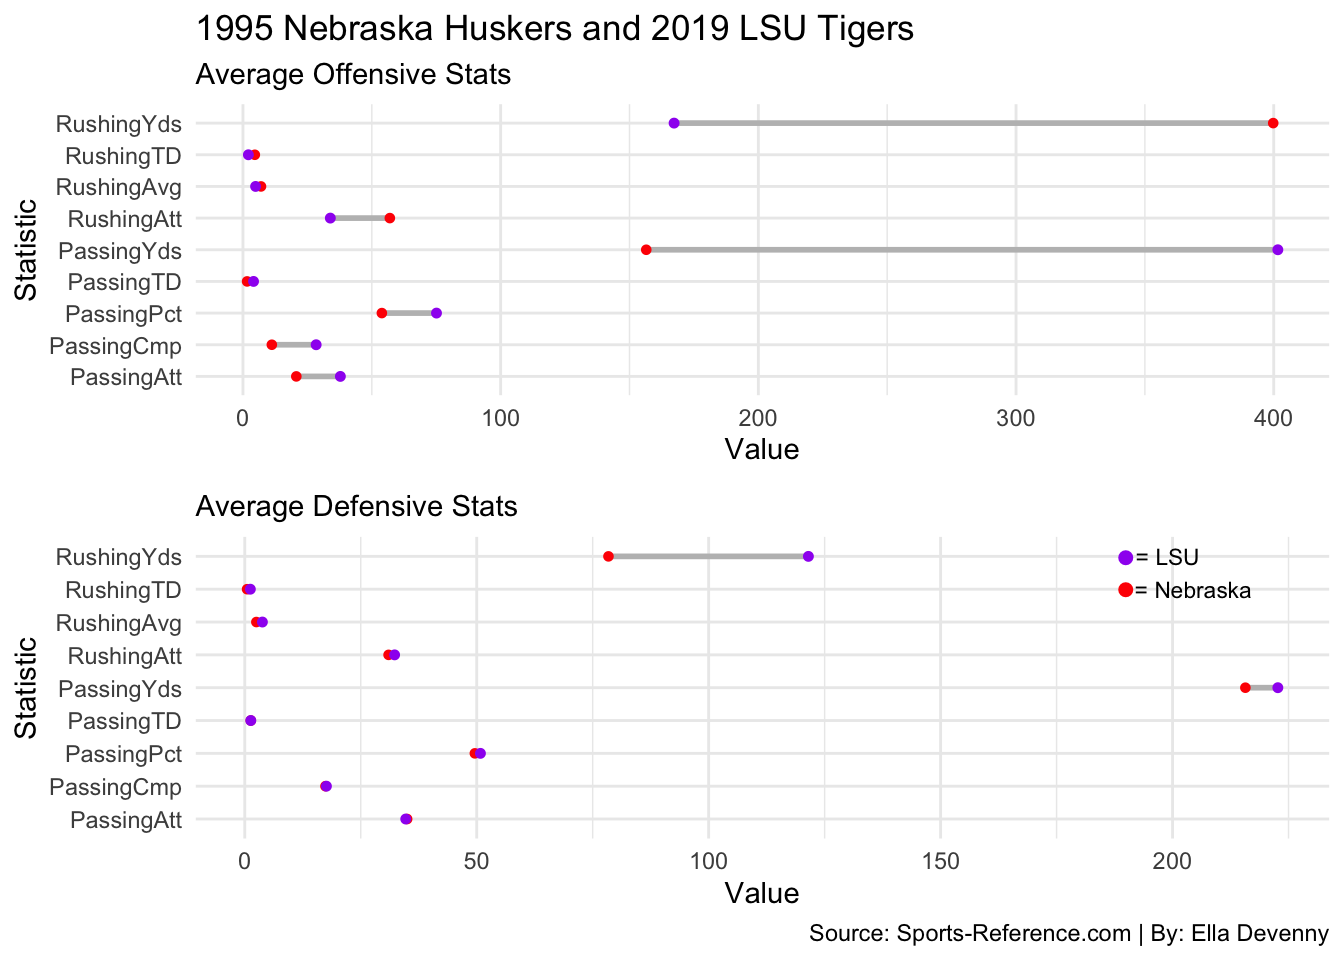
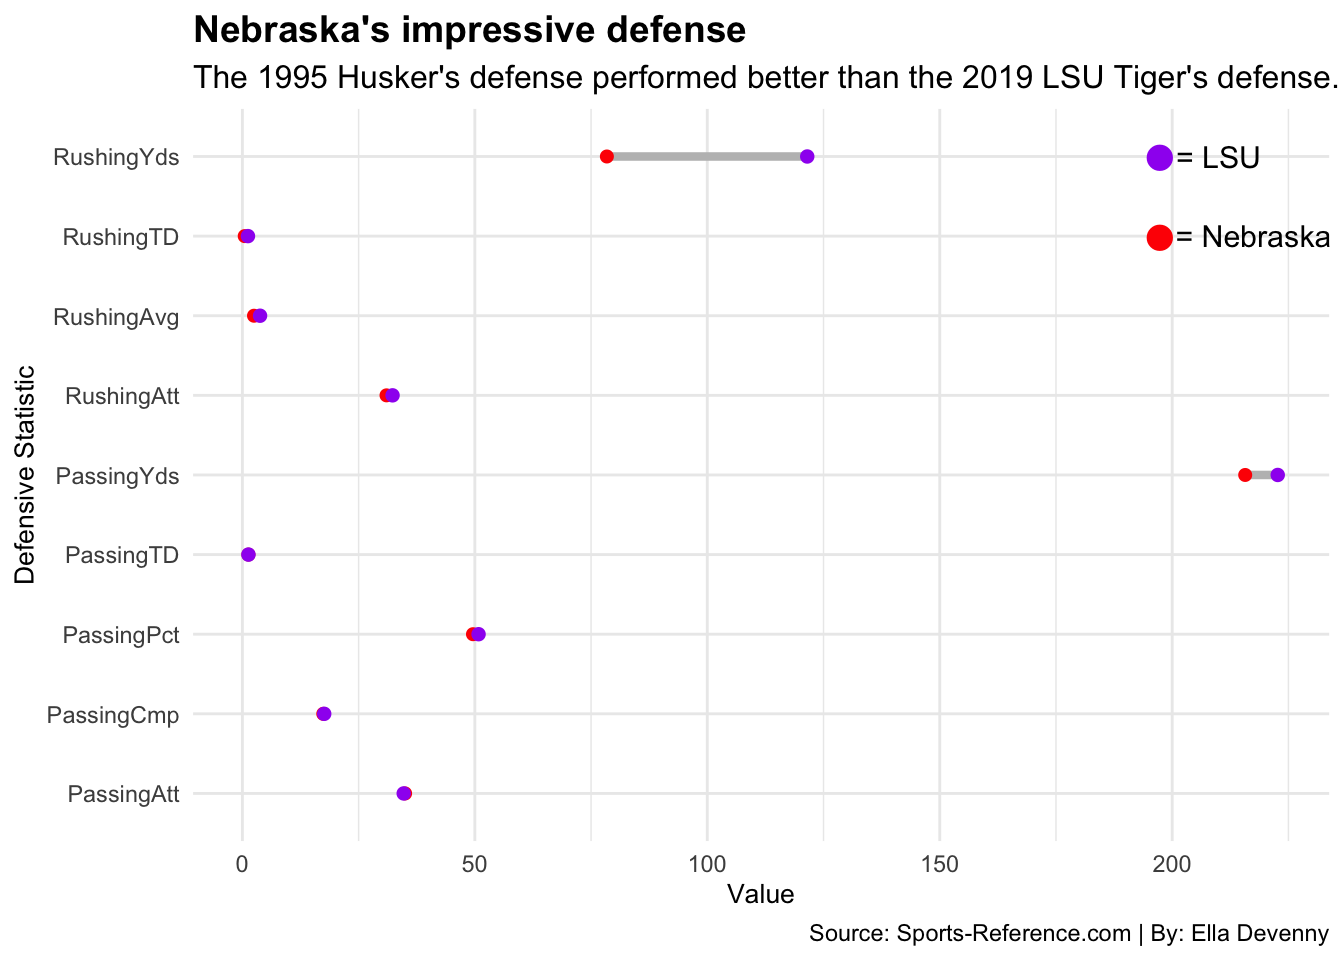
Making edits on my recent blog post.

diff --git a/2021/04/18/the-1995-nebraska-huskers-vs-the-2019-lsu-tigers/index.html b/2021/04/18/the-1995-nebraska-huskers-vs-the-2019-lsu-tigers/index.html
@@ -79,12 +79,12 @@
 <p>I was intrigued by this, given that the teams were in two different decades I wanted to dive deeper into the stats and come to the bottom of this discussion. They were both such dominant teams, so it will be cool to see where their strengths and weakness were. In order to have a better understanding of these teams, it is important to look at various aspects of their play on both sides of the ball.</p>
 <p>Which team had better stats and deserves the “best team in college football history” title?</p>
 <pre class="r"><code>library(tidyverse)</code></pre>
-<pre><code>## ── Attaching packages ─────────────────────────────────────── tidyverse 1.3.0 ──</code></pre>
+<pre><code>## ── Attaching packages ───────────────────── tidyverse 1.3.0 ──</code></pre>
 <pre><code>## ✓ ggplot2 3.3.2     ✓ purrr   0.3.4
 ## ✓ tibble  3.0.3     ✓ dplyr   1.0.2
 ## ✓ tidyr   1.1.2     ✓ stringr 1.4.0
 ## ✓ readr   1.3.1     ✓ forcats 0.5.0</code></pre>
-<pre><code>## ── Conflicts ────────────────────────────────────────── tidyverse_conflicts() ──
+<pre><code>## ── Conflicts ──────────────────────── tidyverse_conflicts() ──
 ## x dplyr::filter() masks stats::filter()
 ## x dplyr::lag()    masks stats::lag()</code></pre>
 <pre class="r"><code>library(cowplot)
@@ -100,6 +100,7 @@ library(ggalt)</code></pre>
 library(ggrepel)</code></pre>
 <p>I pulled various stats from sports-reference.com that I will be using in this blog post. I got both the schedules and outcomes for both teams during their seasons, as well as more specific team stats.</p>
 <p>Let me upload those so I can begin working with them.</p>
+<pre class="r"><code>LSUschedule &lt;- read_csv(&quot;LSU-Schedule2019.csv&quot;)</code></pre>
 <pre><code>## Parsed with column specification:
 ## cols(
 ##   School = col_character(),
@@ -110,12 +111,14 @@ library(ggrepel)</code></pre>
 ##   W = col_double(),
 ##   L = col_double()
 ## )</code></pre>
+<pre class="r"><code>LSUstats &lt;- read_csv(&quot;LSU-Stats2019.csv&quot;)</code></pre>
 <pre><code>## Parsed with column specification:
 ## cols(
 ##   .default = col_double(),
 ##   Split = col_character()
 ## )</code></pre>
 <pre><code>## See spec(...) for full column specifications.</code></pre>
+<pre class="r"><code>NEBschedule &lt;- read_csv(&quot;Nebraska-Schedule1995.csv&quot;)</code></pre>
 <pre><code>## Parsed with column specification:
 ## cols(
 ##   School = col_character(),
@@ -126,6 +129,7 @@ library(ggrepel)</code></pre>
 ##   W = col_double(),
 ##   L = col_double()
 ## )</code></pre>
+<pre class="r"><code>NEBstats &lt;- read_csv(&quot;Nebraska-Stats1995.csv&quot;)</code></pre>
 <pre><code>## Parsed with column specification:
 ## cols(
 ##   Split = col_character(),
@@ -140,6 +144,7 @@ library(ggrepel)</code></pre>
 ##   RushingAvg = col_double(),
 ##   RushingTD = col_double()
 ## )</code></pre>
+<pre class="r"><code>CombinedStats &lt;- read_csv(&quot;CombinedData.csv&quot;)</code></pre>
 <pre><code>## Parsed with column specification:
 ## cols(
 ##   Stat = col_character(),
@@ -155,28 +160,30 @@ library(ggrepel)</code></pre>
 <pre class="r"><code>LSUstats %&gt;% 
   group_by(Split) %&gt;%
   summarise(
-    TotalRushingYards = sum(RushingYds),
-    TotalPassingYards = sum(PassingYds),
-  ) %&gt;% filter(Split == &quot;Offense&quot;)-&gt; LSUoffenseyards</code></pre>
+    AvgRushingYards = sum(RushingYds),
+    AvgPassingYards = sum(PassingYds),
+  ) %&gt;% 
+  filter(Split == &quot;Offense&quot;)-&gt; LSUoffenseyards</code></pre>
 <pre><code>## `summarise()` ungrouping output (override with `.groups` argument)</code></pre>
 <pre class="r"><code>NEBstats %&gt;%
   group_by(Split) %&gt;%
   summarise(
-    TotalRushingYards = sum(RushingYds),
-    TotalPassingYards = sum(PassingYds),
-  ) %&gt;% filter(Split == &quot;Offense&quot;) -&gt; NEBoffenseyards</code></pre>
+    AvgRushingYards = sum(RushingYds),
+    AvgPassingYards = sum(PassingYds),
+  ) %&gt;% 
+  filter(Split == &quot;Offense&quot;) -&gt; NEBoffenseyards</code></pre>
 <pre><code>## `summarise()` ungrouping output (override with `.groups` argument)</code></pre>
 <p>Now that I have two new datasets for each teams offensive yards, I am going to use the pivot longer function so that I can create a stacked bar chart with the offensive stats for both teams. This makes it easier for R to read.</p>
 <pre class="r"><code>LSUoffenseyards %&gt;%
   pivot_longer(
-    cols=starts_with(&quot;Total&quot;),
+    cols=starts_with(&quot;Avg&quot;),
     names_to=&quot;Type&quot;,
     values_to=&quot;Yards&quot;
   ) -&gt; LSUoffensewide
 
 NEBoffenseyards %&gt;%
   pivot_longer(
-    cols=starts_with(&quot;Total&quot;),
+    cols=starts_with(&quot;Avg&quot;),
     names_to=&quot;Type&quot;,
     values_to=&quot;Yards&quot;
   ) -&gt; NEBoffensewide</code></pre>
@@ -184,38 +191,38 @@ NEBoffenseyards %&gt;%
 <p>Something to point out, is that Nebraska’s offense yards came primarily from rushing, while LSU’s came primarily from passing. Different offensive strategies, but they both got the job done.</p>
 <pre class="r"><code>barLSU &lt;- ggplot(LSUoffensewide, aes(x=Split, weight=Yards, fill=Type)) +
   geom_bar() +
-  labs(title=&quot;LSU&#39;s Avg. Offensive Yards (568.9)&quot;,
-       subtitle=&quot;Split into Rushing and Passing&quot;,
-       x=&quot;LSU&quot;,
+  labs(title=&quot;LSU Offense vs. Nebraska Offense: Passing or Rushing?&quot;,
+       subtitle=&quot;The Tiger&#39;s gained more passing yards, where the Husker&#39;s gained more rushing yards.&quot;,
+       x=&quot;LSU (568.9 ypg)&quot;,
        y=&quot;Number of Yards&quot;,
        caption = &quot;&quot;) + 
   theme_minimal() +
   theme(
-    plot.title = element_text(size = 11, face =&quot;bold&quot;),
-    axis.title = element_text(size = 8),
-    plot.subtitle = element_text(size = 10),
+    plot.title = element_text(size = 14, face =&quot;bold&quot;),
+    axis.title = element_text(size = 10),
+    plot.subtitle = element_text(size = 12),
     panel.grid.minor = element_blank()
   )
   
 
 barNEB &lt;- ggplot(NEBoffensewide, aes(x=Split, weight=Yards, fill=Type)) +
   geom_bar() +
-  labs(title=&quot;Nebraska&#39;s Avg. Offensive Yards (556.3)&quot;,
-       subtitle = &quot;Split into Rushing and Passing&quot;,
-       x=&quot;Nebraska&quot;,
+  labs(title= &quot;&quot;, 
+       subtitle=&quot;&quot;,
+       x=&quot;Nebraska (556.3 ypg)&quot;,
        y=&quot;Number of Yards&quot;,
        caption = &quot;Source: Sports-Reference.com | By: Ella Devenny&quot;) +
   theme_minimal() +
   theme(
-    plot.title = element_text(size = 11, face =&quot;bold&quot;),
-    axis.title = element_text(size = 8),
-    plot.subtitle = element_text(size = 10),
+    plot.title = element_text(size = 14, face =&quot;bold&quot;),
+    axis.title = element_text(size = 10),
+    plot.subtitle = element_text(size = 12),
     panel.grid.minor = element_blank()
   )
 
 plot_grid(barLSU, barNEB)</code></pre>
-<p><img src="http://elladevenny.github.io/2021/04/18/the-1995-nebraska-huskers-vs-the-2019-lsu-tigers/index_files/figure-html/unnamed-chunk-5-1.png" width="672" />
-Next we can look at the cumulative point differential that the two teams had throughout the season in a step chart. I am going to do this by finding the point differential these teams had in each game, and then create a cumulative point differential to see how they did throughout the season.</p>
+<p><img src="http://elladevenny.github.io/2021/04/18/the-1995-nebraska-huskers-vs-the-2019-lsu-tigers/index_files/figure-html/unnamed-chunk-5-1.png" width="672" /></p>
+<p>Next we can look at the cumulative point differential that the two teams had throughout the season in a step chart. I am going to do this by finding the point differential these teams had in each game, and then create a cumulative point differential to see how they did throughout the season.</p>
 <p>Since these were both undefeated teams, we know that their point differentials will both be positive, but this will show us how much they outscored each opponent by throughout the season and who had a higher cumulative differential at the end of their seasons… or to the 12th game in this case for LSU.</p>
 <p>I am going to create a step chart using the ggplot function and layers, so that we can see both teams together. Since LSU played in 3 more games than Nebraska, I am going to use the filter function to only show me LSU’s cumulative point differential up until week 12.</p>
 <pre class="r"><code>difflogLSU &lt;- LSUschedule %&gt;%
@@ -240,49 +247,48 @@ difflogLSU &lt;- difflogLSU %&gt;%
   labs(
     x=&quot;Game&quot;,
     y=&quot;Cumulative Point Differential&quot;,
-    title=&quot;1995 Nebraska Huskers vs. 2019 LSU Tigers Point Differential&quot;,
-    subtitle=&quot;The Huskers outscored their opponents by larger amounts than the LSU Tigers&quot;,
+    title=&quot;Nebraska outscored their opponents by more points than LSU&quot;,
+    subtitle=&quot;The Husker&#39;s cummulative point differential steadily rose at a higher rate than the Tiger&#39;s.&quot;,
     caption=&quot;Source: Sports-Reference.com | By: Ella Devenny&quot;) +
-  theme_minimal()</code></pre>
-<p><img src="http://elladevenny.github.io/2021/04/18/the-1995-nebraska-huskers-vs-the-2019-lsu-tigers/index_files/figure-html/unnamed-chunk-7-1.png" width="672" />
-Next, I am going to create a dumbbell chart to compare both the various offensive and defensive stats bettween the two teams. First, I am going to create a couple new datasets to work with, that show the offensive stats of both teams in one and the defensive stats of both teams in another.</p>
+  theme_minimal() +
+  theme(plot.title = element_text(size = 14, face = &quot;bold&quot;),
+        axis.title = element_text(size=10),
+        plot.subtitle = element_text(size=12))</code></pre>
+<p><img src="http://elladevenny.github.io/2021/04/18/the-1995-nebraska-huskers-vs-the-2019-lsu-tigers/index_files/figure-html/unnamed-chunk-7-1.png" width="672" /></p>
+<p>Next, I am going to create a dumbbell chart to compare the defensive stats of each team. First, I am going to create a couple new datasets to work with, that show the offensive stats of both teams in one and the defensive stats of both teams in another. This way, I can focus on just the defensive stats for this chart.</p>
 <pre class="r"><code>CombinedStats %&gt;% 
   select(Stat, NebraskaOffense, LSUOffense)-&gt; OffenseStats
 
 CombinedStats %&gt;%
   select(Stat, NebraskaDefense, LSUDefense) -&gt; DefensiveStats</code></pre>
-<p>I will create two different charts and use the cowplot library function plot grid to see them in one chart. I added a few annotations, used the lab function, and color function so the chart is easier to read and understand.</p>
-<pre class="r"><code>OFFchart &lt;- ggplot() +
-  geom_dumbbell(
-    data=OffenseStats,
-    aes(y=Stat, x=NebraskaOffense, xend=LSUOffense),
-    size=1,
-    color=&quot;grey&quot;,
-    colour_x =&quot;red&quot;,
-    colour_xend = &quot;purple&quot;) +
-  theme_minimal() +
-  labs(title=&quot;1995 Nebraska Huskers and 2019 LSU Tigers&quot;, x=&quot;Value&quot;, y=&quot;Statistic&quot;, subtitle = &quot;Average Offensive Stats&quot;)
-
-  
-DEFchart &lt;- ggplot() +
+<p>I will create a dumbbell chart using the ggplot function. I added a few annotations, used the lab function, and color function so the chart is easier to read and understand.</p>
+<pre class="r"><code>DEFchart &lt;- ggplot() +
   geom_dumbbell(
     data=DefensiveStats, 
     aes(y=Stat, x=NebraskaDefense, xend=LSUDefense),
-    size=1,
+    size=1.5,
     color=&quot;grey&quot;,
     colour_x=&quot;red&quot;,
     colour_xend=&quot;purple&quot;) +
-  geom_text(aes(x=190, y=&#39;RushingYds&#39;, label=&quot;•&quot;), size= 8, color=&quot;purple&quot;) +
-  geom_text(aes(x=190, y=&#39;RushingTD&#39;, label=&quot;•&quot;), size= 8, color=&quot;red&quot;) +
-  geom_text(aes(x=199, y=&#39;RushingYds&#39;, label=&quot;= LSU&quot;), size= 3, color=&quot;black&quot;) +
-  geom_text(aes(x=204.5, y=&#39;RushingTD&#39;, label=&quot;= Nebraska&quot;), size= 3, color=&quot;black&quot;) +
+  geom_text(aes(x=197.5, y=&#39;RushingYds&#39;, label=&quot;•&quot;), size= 14, color=&quot;purple&quot;) +
+  geom_text(aes(x=197.5, y=&#39;RushingTD&#39;, label=&quot;•&quot;), size= 14, color=&quot;red&quot;) +
+  geom_text(aes(x=210, y=&#39;RushingYds&#39;, label=&quot;= LSU&quot;), size= 4, color=&quot;black&quot;) +
+  geom_text(aes(x=217.5, y=&#39;RushingTD&#39;, label=&quot;= Nebraska&quot;), size= 4, color=&quot;black&quot;) +
   theme_minimal() +
-  labs(x=&quot;Value&quot;, y=&quot;Statistic&quot;, subtitle = &quot;Average Defensive Stats&quot;, caption=&quot;Source: Sports-Reference.com | By: Ella Devenny&quot;)</code></pre>
-<p>As you can see from this dumbbell chart, Nebraska and LSU shared very similar stats in various aspects both defensively and offensively. The biggest difference offensively is between rushing and passing yards, which I already covered. Obviously for offensive stats it is better to be on the right, and for defensive stats it is better to be on the left. So what does all this mean?</p>
-<p>Different offensives run different plays, so a few of these stats (mostly offensively) aren’t as telling on the strength of the team. What is important to point out, is that Nebraska’s defense stats were better than LSU’s in every category on average.</p>
-<pre class="r"><code>plot_grid(OFFchart, DEFchart, ncol=1)</code></pre>
-<p><img src="http://elladevenny.github.io/2021/04/18/the-1995-nebraska-huskers-vs-the-2019-lsu-tigers/index_files/figure-html/unnamed-chunk-10-1.png" width="672" />
-After completing this project and diving deeper into the stats of both of these teams, I have to give the 1995 Husker’s the “best team in college football history” title. Not because I am a student at UNL and a Huskers fan, but because the stats have given me reason to be comfortable in that statement. Not only did the Husker’s win by larger amounts than LSU through their season, but the Husker defensive is also stronger than the 2019 LSU Tiger’s defense. Nebraska was a rushing offense, and LSU’s defense allowed quite a bit of rushing yards. On the other side, LSU was a passing offense, and Nebraska’s defense allowed fewer passing yards than LSU’s defense.</p>
+  theme(
+    plot.title = element_text(size= 14, face = &quot;bold&quot;),
+    axis.title = element_text(size= 10),
+    plot.subtitle = element_text(size=12)) +
+  labs(title=&quot;Nebraska&#39;s impressive defense&quot;, 
+       x=&quot;Value&quot;, 
+       y=&quot;Defensive Statistic&quot;, 
+       subtitle = &quot;The 1995 Husker&#39;s defense performed better than the 2019 LSU Tiger&#39;s defense.&quot;, 
+       caption=&quot;Source: Sports-Reference.com | By: Ella Devenny&quot;)</code></pre>
+<p>As you can see from this dumbbell chart, Nebraska and LSU put up very similar numbers in various defensive stats. Obviously for defensive stats it is better to be on the left. So what does all this mean?</p>
+<p>It is important to point out that Nebraska’s defense stats were better than LSU’s in every category based on their average per game. The Husker’s defense allowed a lot fewer rushing yards per game, and fewer passing yards per game as well.</p>
+<pre class="r"><code>plot_grid(DEFchart, ncol=1)</code></pre>
+<p><img src="http://elladevenny.github.io/2021/04/18/the-1995-nebraska-huskers-vs-the-2019-lsu-tigers/index_files/figure-html/unnamed-chunk-10-1.png" width="672" /></p>
+<p>After completing this project and diving deeper into the stats of both of these teams, I have to give the 1995 Husker’s the “best team in college football history” title. Not because I am a student at UNL and a Huskers fan, but because the stats have given me reason to be comfortable in that statement. Not only did the Husker’s win by larger amounts than LSU through their season, but the Husker defensive is also stronger than the 2019 LSU Tiger’s defense. Nebraska was a rushing offense, and LSU’s defense allowed quite a bit of rushing yards per game. On the other side, LSU was a passing offense, and Nebraska’s defense allowed fewer passing yards than LSU’s defense.</p>
 <p>Now I know… Nebraska fan’s live in the past. But man what a time to have been a Husker fan! (I wasn’t born quite yet)</p>
 
     </div>
